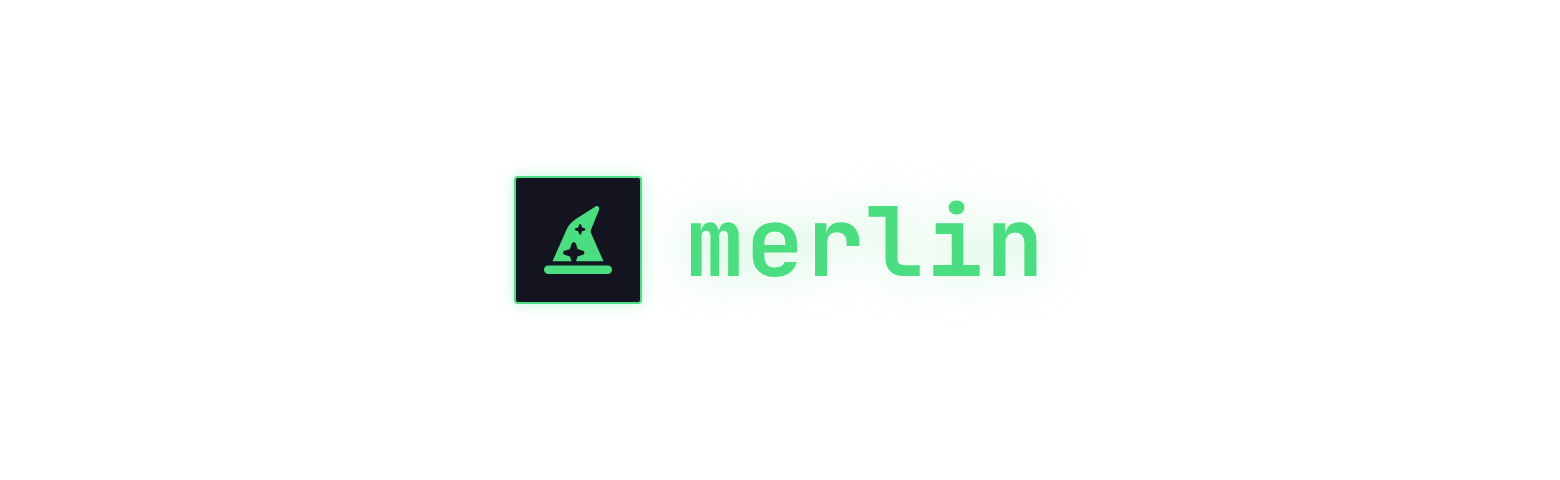
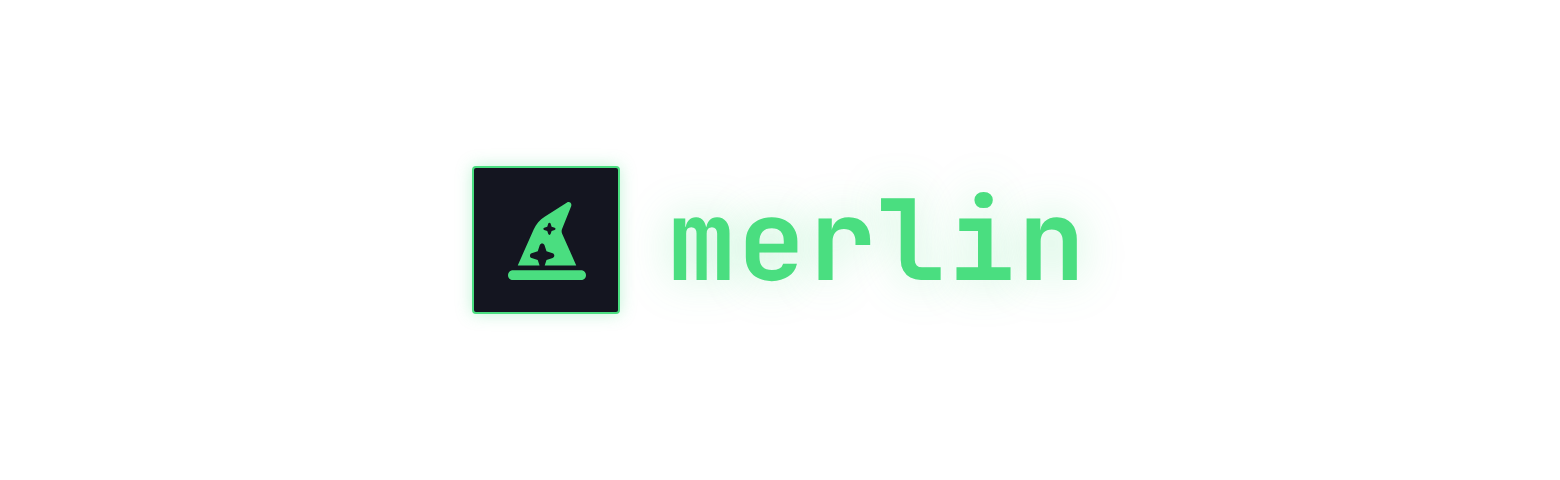
README: bigger lockup; category tagline; pitch opens on the gloss
Lockup scales up (box 72px, wordmark 56px). The bold line under the
banner becomes the category ('Your agent operating environment') and
the pitch paragraph opens with its gloss ('The place where your AI
agents work.'), so the two lines no longer said the category twice.

Changed region(s): [[0.2769, 0.3438, 0.7077, 0.6562]]

diff --git a/readme/banner.html b/readme/banner.html
@@ -21,20 +21,20 @@
       display: flex;
       align-items: center;
       justify-content: center;
-      gap: 22px;
+      gap: 24px;
       font-family: 'JetBrains Mono', monospace;
     }
     .rf-box {
       display: flex; align-items: center; justify-content: center;
-      width: 62px; height: 62px;
+      width: 72px; height: 72px;
       border: 1px solid #4ade80;
       background: #141520;
       border-radius: 2px;
       box-shadow: 0 0 8px rgba(80, 220, 140, 0.35);
     }
-    .rf-box svg { width: 34px; height: 34px; color: #4ade80; }
+    .rf-box svg { width: 39px; height: 39px; color: #4ade80; }
     .name {
-      font-size: 48px;
+      font-size: 56px;
       font-weight: 700;
       color: #4ade80;
       letter-spacing: 1px;

diff --git a/README.md b/README.md
@@ -1,15 +1,14 @@
 <!-- Source: readme/banner.html; capture #banner transparent at 2x after any brand change. -->
 ![Merlin](readme/banner.png)
 
-**Give your agents a machine of their own.**
+**Your agent operating environment**
 
-Merlin is an agent operating environment: the place where your AI agents
-work. It turns any Linux box or Mac into that place: a real shell, real
-files, real git, in your browser, for the agents you already use (Claude
-Code, OpenCode, Gemini, Codex: anything that runs in a terminal). You run
-it on one machine and control it from any other, phone included. Open
-source and self-hosted first; [Merlin Cloud](https://merlincloud.dev) is
-the hosted version.
+The place where your AI agents work. Merlin turns any Linux box or Mac
+into that place: a real shell, real files, real git, in your browser, for
+the agents you already use (Claude Code, OpenCode, Gemini, Codex: anything
+that runs in a terminal). You run it on one machine and control it from
+any other, phone included. Open source and self-hosted first;
+[Merlin Cloud](https://merlincloud.dev) is the hosted version.
 
 ## The three pillars
 
